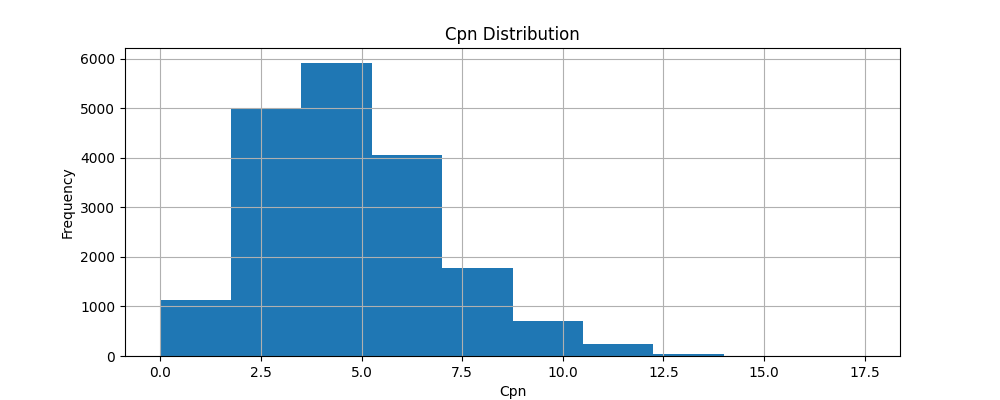
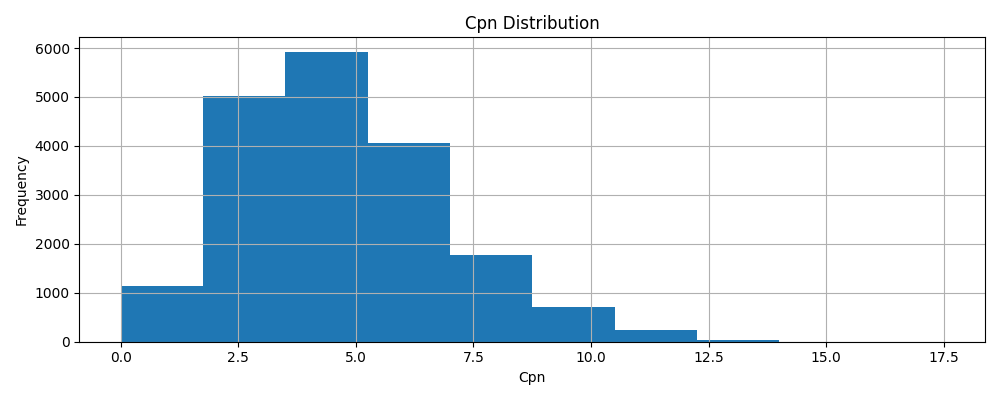
atascado en ridge

diff --git a/Regression/regression.py b/Regression/regression.py
@@ -1,0 +1,86 @@
+import pandas as pd
+import matplotlib.pyplot as plt
+from sklearn import preprocessing
+from sklearn.linear_model import LinearRegression, Ridge
+from sklearn.model_selection import train_test_split
+from sklearn.metrics import mean_squared_error, r2_score
+
+data = pd.read_csv('bonds.csv', low_memory=False)
+
+def linear_regression(X, y):
+    X_scaled = preprocessing.scale(X)
+    X_train, X_test, y_train, y_test = train_test_split(X_scaled, y, test_size=0.2, random_state=42)
+
+    model = LinearRegression()
+
+    model.fit(X_train, y_train)
+
+    y_pred = model.predict(X_test)
+
+    mse = mean_squared_error(y_test, y_pred)
+    r2 = r2_score(y_test, y_pred)
+    hit_ratio = (y_test * y_pred > 0).mean()
+
+    coefs = pd.Series(abs(model.coef_))
+
+    plt.figure()
+    plt.title("Feature importances " + y.name + " returns")
+    plt.barh(X.columns, coefs, color="r", align="center")
+    plt.xlabel("Feature importance")
+    plt.ylabel("Feature")
+    plt.savefig("Regression/feature_importances_" + y.name + ".png", format="png")
+    plt.close()
+
+    return mse, r2, hit_ratio
+
+
+def ridge_regression(X, y):
+    X_scaled = preprocessing.scale(X)
+    X_train, X_test, y_train, y_test = train_test_split(X_scaled, y, test_size=0.2, random_state=42)
+    
+    model = Ridge()
+
+    model.fit(X_train, y_train)
+
+    y_pred = model.predict(X_test)
+
+    mse = mean_squared_error(y_test, y_pred)
+    r2 = r2_score(y_test, y_pred)
+    hit_ratio = (y_test * y_pred > 0).mean()
+
+    coefs = pd.DataFrame(model.coef_)
+
+    print(coefs)
+
+    plt.figure()
+    plt.title("Coefficient values vs Penalization for " + y.name + " returns")
+    plt.plot(coefs)
+    plt.xlabel("Penalization")
+    plt.ylabel("Coefficient values")
+    plt.legend(X.columns)
+    plt.savefig("Regression/coefficient_values_" + y.name + ".png", format="png")
+    plt.close()
+
+    return mse, r2, hit_ratio
+
+
+if __name__ == '__main__':
+    returns = ['R1M', 'R3M', 'R6M', 'R12M']
+    results = pd.DataFrame(columns=['Model', 'Y', 'MSE', 'R2', 'Hit Ratio'])
+
+    for i in returns:
+        y = data[i]
+        x = data.select_dtypes(include='number').drop(returns, axis=1)
+        
+        mse, r2, hit_ratio = linear_regression(x, y)
+        results = results._append({'Model': 'Linear Regression', 'Y': i, 'MSE': mse, 'R2': r2, 'Hit Ratio': hit_ratio}, ignore_index=True)
+        
+        mse_ridge, r2_ridge, hit_ratios_ridge = ridge_regression(x, y)
+        results = results._append({'Model': 'Ridge Regression', 'Y': i, 'MSE': mse_ridge, 'R2': r2_ridge, 'Hit Ratio': hit_ratios_ridge}, ignore_index=True)
+
+    print(results)
+
+
+
+        
+        

diff --git a/DataPreprocessing/eda.py b/DataPreprocessing/eda.py
@@ -31,6 +31,19 @@ def plot_column(df, column):
         ax.set_title(i + ' Time Series')
         plt.savefig('DataPreprocessing/' + i + '_Time.png')
 
+def plot_categorical_distribution(df, column):
+    df.drop_duplicates(subset='ISIN', keep='first', inplace=True)
+    for i in column:
+        Fig, ax = plt.subplots(figsize=(10, 4))
+        df[i].hist(ax=ax)
+        ax.set_ylabel('Frequency')
+        ax.set_xlabel(i)
+        ax.set_xticks(range(len(df[i].unique())))
+        ax.set_xticklabels(df[i].unique(), rotation=60)
+        ax.set_title(i + ' Distribution')
+        plt.tight_layout()
+        plt.savefig('DataPreprocessing/' + i + '_Distribution.png')
+
 def plot_distribution(df, column):
     df.drop_duplicates(subset='ISIN', keep='first', inplace=True)
     for i in column:
@@ -39,11 +52,13 @@ def plot_distribution(df, column):
         ax.set_ylabel('Frequency')
         ax.set_xlabel(i)
         ax.set_title(i + ' Distribution')
+        plt.tight_layout()
         plt.savefig('DataPreprocessing/' + i + '_Distribution.png')
 
 if __name__ == '__main__':
     df = pd.read_csv('bonds.csv', low_memory=False)
     #plot_column(df, ['Price', 'R1M','R3M','R6M','R12M'])
     #plot_seasonal(df)
-    plot_distribution(df, ['Index Rating (String)','BCLASS 2','Cpn'])
+    #plot_categorical_distribution(df, ['Index Rating (String)','BCLASS 2','Payment Rank'])
+    plot_distribution(df, ['Cpn', 'Maturity Date'])
 

diff --git a/DataPreprocessing/preprocessing.py b/DataPreprocessing/preprocessing.py
@@ -28,8 +28,9 @@ def clean_data(data):
     data = data.drop(columns=['Unnamed: 0'])
     data['Cpn'] = data['Cpn'].fillna(data['Coupon'])
     data = data.drop(columns=['Coupon'])
-    return data.rename(columns={'Maturity.1': 'Maturity Date'})
-
+    data = data.rename(columns={'Maturity.1': 'Maturity Date'})
+    data = data.drop(columns=['Description', 'Ccy', 'Issuer', 'Maturity Date'])
+    return data
 def calculate_returns(data):
     data = data.sort_values(['ISIN', 'Date'])
     data['R1M'] = data.groupby('ISIN')['Price'].pct_change()
